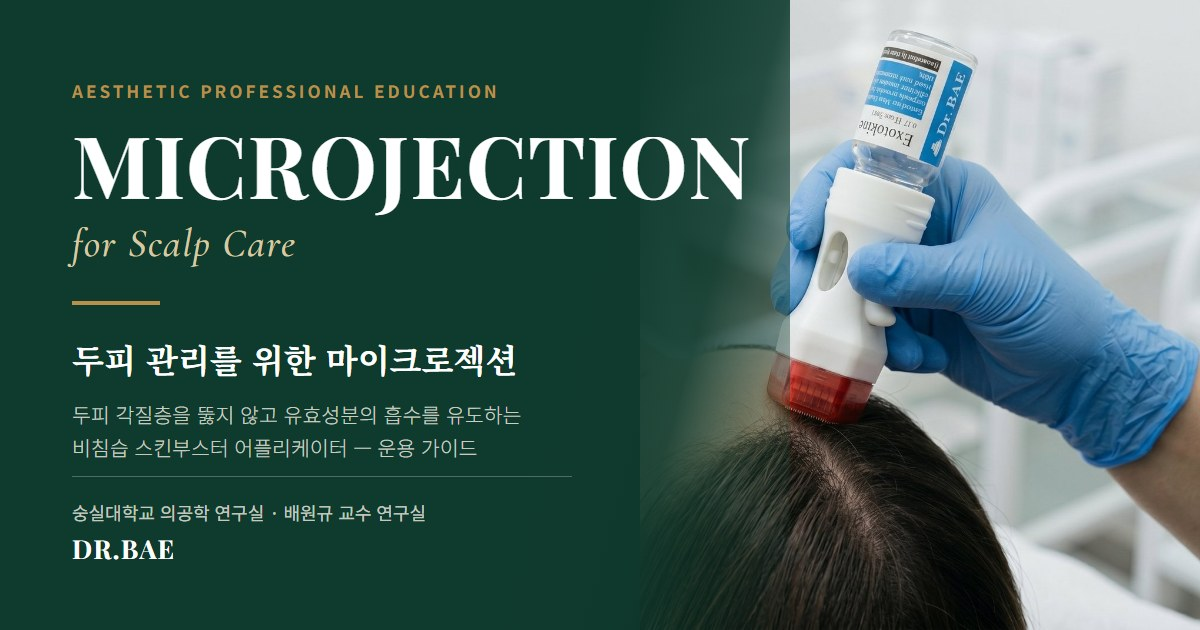
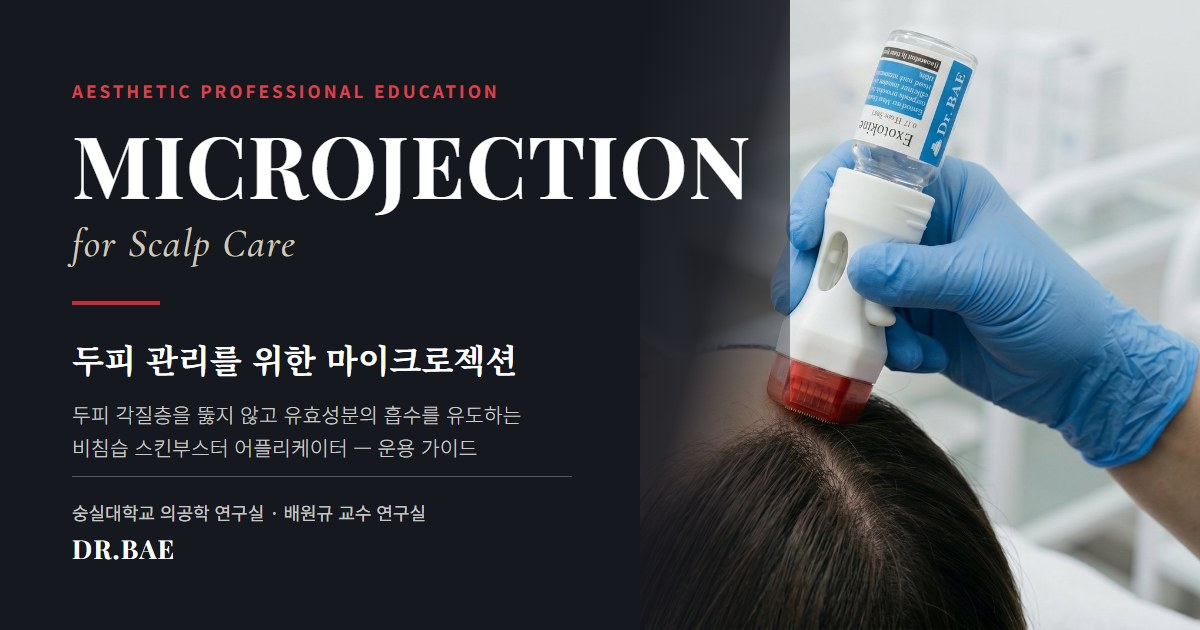
칼라 구성을 스킨케어 페이지 팔레트로 통일
- 포레스트 그린·골드·크림 → 잉크 블랙·시그널 레드·페이퍼·골드
  (Microjection_Skin-care와 동일한 팔레트: #16181F·#C62B36·#FAF8F4·#9C7F42)
- 배경·카드·괘선·워터마크·다크 박스·홈케어 카드·캡션 카드 전면 리매핑
- 효능 배지: Hydrate→블루, Condition→그린 등 스킨 페이지 톤으로 조정
- 라인업 칩: DEVICE 레드 · LIQUID 블루 · CLEANSER 그린 재배정
- OG 썸네일도 잉크 블랙 + 레드 포인트로 재생성

diff --git a/index.html b/index.html
@@ -26,22 +26,22 @@
 <link href="https://fonts.googleapis.com/css2?family=Noto+Serif+KR:wght@400;600;700;900&family=Noto+Sans+KR:wght@300;400;500;700&family=Cormorant+Garamond:ital,wght@0,400;0,500;0,600;1,400&family=JetBrains+Mono:wght@400;500&display=swap" rel="stylesheet">
 <style>
   :root {
-    --bg: #F6F1E6;
-    --bg-2: #EFE7D4;
-    --bg-card: #FBF7EC;
-    --ink: #12231B;
-    --ink-2: #2E3D34;
-    --ink-3: #5D6A60;
-    --forest: #0F3B2E;
-    --forest-2: #1E5A45;
-    --forest-3: #2E7A5E;
-    --moss: #6B8A5A;
-    --gold: #B8904A;
-    --gold-2: #8E6A2E;
-    --clay: #A14E35;
-    --rule: rgba(18, 35, 27, 0.14);
-    --rule-2: rgba(18, 35, 27, 0.28);
-    --shadow: 0 1px 2px rgba(15,59,46,0.04), 0 10px 32px -12px rgba(15,59,46,0.12);
+    --bg: #FAF8F4;
+    --bg-2: #F1EDE5;
+    --bg-card: #FFFFFF;
+    --ink: #16181F;
+    --ink-2: #2E313B;
+    --ink-3: #6E7076;
+    --forest: #16181F;
+    --forest-2: #C62B36;
+    --forest-3: #A02028;
+    --moss: #2F6B4F;
+    --gold: #9C7F42;
+    --gold-2: #8A5A12;
+    --clay: #C62B36;
+    --rule: rgba(22, 24, 31, 0.14);
+    --rule-2: rgba(22, 24, 31, 0.28);
+    --shadow: 0 1px 2px rgba(22,24,31,0.04), 0 10px 32px -12px rgba(22,24,31,0.12);
   }
   * { box-sizing: border-box; margin: 0; padding: 0; }
   html { scroll-behavior: smooth; }
@@ -55,8 +55,8 @@
     -webkit-font-smoothing: antialiased;
     -moz-osx-font-smoothing: grayscale;
     background-image:
-      radial-gradient(circle at 10% 0%, rgba(107,138,90,0.10) 0%, transparent 35%),
-      radial-gradient(circle at 95% 85%, rgba(184,144,74,0.08) 0%, transparent 40%);
+      radial-gradient(circle at 10% 0%, rgba(47,107,79,0.10) 0%, transparent 35%),
+      radial-gradient(circle at 95% 85%, rgba(156,127,66,0.08) 0%, transparent 40%);
     background-attachment: fixed;
   }
   /* Watermark */
@@ -65,13 +65,13 @@
     top: 0;
     z-index: 100;
     background: var(--forest);
-    color: #F6F1E6;
+    color: #FAF8F4;
     padding: 8px 20px;
     font-size: 11.5px;
     letter-spacing: 0.12em;
     text-align: center;
     font-weight: 500;
-    border-bottom: 1px solid rgba(184,144,74,0.4);
+    border-bottom: 1px solid rgba(156,127,66,0.4);
   }
   .watermark-top span {
     color: var(--gold);
@@ -82,7 +82,7 @@
     position: sticky;
     top: 33px;
     z-index: 99;
-    background: rgba(246, 241, 230, 0.94);
+    background: rgba(250, 248, 244, 0.94);
     backdrop-filter: blur(10px);
     border-bottom: 0.5px solid var(--rule);
     padding: 12px 0;
@@ -177,7 +177,7 @@
 
   /* HERO */
   .hero {
-    background: linear-gradient(180deg, rgba(15,59,46,0.03), transparent);
+    background: linear-gradient(180deg, rgba(22,24,31,0.03), transparent);
     border: 1px solid var(--rule);
     border-radius: 2px;
     padding: 56px 48px;
@@ -233,7 +233,7 @@
     border-radius: 2px;
     overflow: hidden;
     background: var(--forest);
-    box-shadow: 0 2px 24px -8px rgba(15,59,46,0.25);
+    box-shadow: 0 2px 24px -8px rgba(22,24,31,0.25);
   }
   .hero-banner img {
     width: 100%;
@@ -247,7 +247,7 @@
     position: absolute;
     inset: auto 0 0 0;
     height: 55%;
-    background: linear-gradient(180deg, transparent 0%, rgba(18,35,27,0.35) 45%, rgba(18,35,27,0.88) 100%);
+    background: linear-gradient(180deg, transparent 0%, rgba(22,24,31,0.35) 45%, rgba(22,24,31,0.88) 100%);
     pointer-events: none;
   }
   .hero-banner figcaption {
@@ -270,7 +270,7 @@
     text-transform: uppercase;
     margin-bottom: 8px;
     padding-bottom: 5px;
-    border-bottom: 1px solid rgba(184,144,74,0.6);
+    border-bottom: 1px solid rgba(156,127,66,0.6);
   }
   .hero-banner .banner-text {
     display: block;
@@ -283,7 +283,7 @@
   .hero-banner .banner-sub {
     display: block;
     font-size: 13px;
-    color: rgba(246,241,230,0.8);
+    color: rgba(250,248,244,0.8);
     margin-top: 6px;
     font-weight: 400;
   }
@@ -301,7 +301,7 @@
     border-radius: 2px;
     overflow: hidden;
     background: var(--bg-card);
-    box-shadow: 0 2px 18px -10px rgba(15,59,46,0.22);
+    box-shadow: 0 2px 18px -10px rgba(22,24,31,0.22);
   }
   .section-banner img {
     width: 100%;
@@ -315,7 +315,7 @@
     position: absolute;
     inset: auto 0 0 0;
     height: 45%;
-    background: linear-gradient(180deg, transparent 0%, rgba(18,35,27,0.35) 40%, rgba(18,35,27,0.85) 100%);
+    background: linear-gradient(180deg, transparent 0%, rgba(22,24,31,0.35) 40%, rgba(22,24,31,0.85) 100%);
     pointer-events: none;
   }
   .section-banner figcaption {
@@ -338,7 +338,7 @@
     text-transform: uppercase;
     margin-bottom: 6px;
     padding-bottom: 4px;
-    border-bottom: 1px solid rgba(184,144,74,0.6);
+    border-bottom: 1px solid rgba(156,127,66,0.6);
   }
   .section-banner .banner-text {
     display: block;
@@ -351,7 +351,7 @@
   .section-banner .banner-sub {
     display: block;
     font-size: 12.5px;
-    color: rgba(246,241,230,0.8);
+    color: rgba(250,248,244,0.8);
     margin-top: 5px;
     font-weight: 400;
   }
@@ -373,7 +373,7 @@
     border-radius: 0 2px 2px 0;
   }
   .callout.forest { border-left-color: var(--forest); }
-  .callout.clay { border-left-color: var(--clay); background: #F3E6DE; }
+  .callout.clay { border-left-color: var(--clay); background: #FBEDEE; }
   .callout-title {
     font-family: 'Noto Serif KR', serif;
     font-weight: 700;
@@ -493,7 +493,7 @@
     position: absolute;
     top: 0; left: 0; right: 0;
     height: 3px;
-    background: linear-gradient(90deg, rgba(93,106,96,0.4) 0%, var(--gold) 50%, var(--forest) 100%);
+    background: linear-gradient(90deg, rgba(110,112,118,0.4) 0%, var(--gold) 50%, var(--forest) 100%);
   }
   .evo-header,
   .evo-row {
@@ -559,7 +559,7 @@
   }
   .evo-past {
     padding: 10px 16px;
-    background: rgba(15,59,46,0.035);
+    background: rgba(22,24,31,0.035);
     border-left: 2px solid var(--rule-2);
     border-radius: 0 2px 2px 0;
     color: var(--ink-3);
@@ -718,7 +718,7 @@
   .product-card .ptags span {
     font-size: 11px;
     padding: 3px 9px;
-    background: rgba(15,59,46,0.07);
+    background: rgba(22,24,31,0.07);
     color: var(--forest-2);
     border-radius: 10px;
     letter-spacing: 0.02em;
@@ -731,9 +731,9 @@
   }
   .product-card.device .pcat { color: var(--gold); }
   .product-card.device .pname { color: var(--bg); }
-  .product-card.device .pdesc { color: rgba(246,241,230,0.85); }
-  .product-card.device .ptags { border-top-color: rgba(246,241,230,0.2); }
-  .product-card.device .ptags span { background: rgba(184,144,74,0.2); color: var(--gold); }
+  .product-card.device .pdesc { color: rgba(250,248,244,0.85); }
+  .product-card.device .ptags { border-top-color: rgba(250,248,244,0.2); }
+  .product-card.device .ptags span { background: rgba(156,127,66,0.2); color: var(--gold); }
   .shop-only-badge {
     position: absolute;
     top: 12px; right: 12px;
@@ -775,7 +775,7 @@
     transition: background 0.2s;
     position: relative;
   }
-  .acc-head:hover { background: rgba(15,59,46,0.035); }
+  .acc-head:hover { background: rgba(22,24,31,0.035); }
   .acc-head .tier-num {
     font-family: 'Cormorant Garamond', serif;
     font-style: italic;
@@ -1012,11 +1012,11 @@
     color: var(--bg);
     margin-bottom: 14px;
     padding-bottom: 10px;
-    border-bottom: 1px solid rgba(184,144,74,0.35);
+    border-bottom: 1px solid rgba(156,127,66,0.35);
   }
   .home-card ol {
     margin-left: 18px;
-    color: rgba(246,241,230,0.88);
+    color: rgba(250,248,244,0.88);
     font-size: 14px;
   }
   .home-card ol li { margin-bottom: 6px; line-height: 1.6; }
@@ -1025,7 +1025,7 @@
   /* Compliance footer */
   .compliance {
     background: var(--forest);
-    color: #F6F1E6;
+    color: #FAF8F4;
     padding: 40px 36px;
     margin-top: 60px;
     border-radius: 2px;
@@ -1033,11 +1033,11 @@
   .compliance h3 {
     color: var(--gold);
     margin-bottom: 16px;
-    border-bottom: 1px solid rgba(184,144,74,0.4);
+    border-bottom: 1px solid rgba(156,127,66,0.4);
     padding-bottom: 10px;
   }
   .compliance p {
-    color: #F6F1E6;
+    color: #FAF8F4;
     font-size: 14.5px;
     font-weight: 400;
     line-height: 1.85;
@@ -1048,7 +1048,7 @@
     font-weight: 700;
   }
   .compliance p em {
-    color: #F6F1E6;
+    color: #FAF8F4;
     font-style: italic;
     opacity: 0.95;
   }
@@ -1060,8 +1060,8 @@
   }
   .compliance .lang > div {
     padding: 18px 22px;
-    background: rgba(246,241,230,0.07);
-    border: 0.5px solid rgba(184,144,74,0.25);
+    background: rgba(250,248,244,0.07);
+    border: 0.5px solid rgba(156,127,66,0.25);
     border-radius: 2px;
   }
   .compliance .lang h4 {
@@ -1070,7 +1070,7 @@
     letter-spacing: 0.1em;
     margin-bottom: 12px;
     padding-bottom: 8px;
-    border-bottom: 0.5px solid rgba(184,144,74,0.3);
+    border-bottom: 0.5px solid rgba(156,127,66,0.3);
   }
   .compliance .lang ul {
     margin: 0 0 0 18px;
@@ -1078,7 +1078,7 @@
     list-style: disc;
   }
   .compliance .lang li {
-    color: #F6F1E6;
+    color: #FAF8F4;
     font-size: 13.5px;
     font-weight: 400;
     line-height: 1.75;
@@ -1148,19 +1148,19 @@
     font-size: 10px;
     letter-spacing: 0;
   }
-  .eff-badge.delivery  { background: rgba(15,59,46,0.10);  color: var(--forest);   border-color: rgba(15,59,46,0.25); }
+  .eff-badge.delivery  { background: rgba(22,24,31,0.10);  color: var(--forest);   border-color: rgba(22,24,31,0.25); }
   .eff-badge.delivery::before  { content: "▲ "; }
-  .eff-badge.cleanse   { background: rgba(161,78,53,0.10); color: var(--clay);     border-color: rgba(161,78,53,0.25); }
+  .eff-badge.cleanse   { background: rgba(198,43,54,0.10); color: var(--clay);     border-color: rgba(198,43,54,0.25); }
   .eff-badge.cleanse::before   { content: "○ "; }
-  .eff-badge.condition { background: rgba(107,138,90,0.15);color: #3D5A2A;         border-color: rgba(107,138,90,0.35); }
+  .eff-badge.condition { background: rgba(47,107,79,0.15);color: #2F6B4F;         border-color: rgba(47,107,79,0.35); }
   .eff-badge.condition::before { content: "◇ "; }
-  .eff-badge.nourish   { background: rgba(184,144,74,0.18);color: var(--gold-2);   border-color: rgba(184,144,74,0.40); }
+  .eff-badge.nourish   { background: rgba(156,127,66,0.18);color: var(--gold-2);   border-color: rgba(156,127,66,0.40); }
   .eff-badge.nourish::before   { content: "● "; }
-  .eff-badge.hydrate   { background: rgba(46,122,94,0.13); color: var(--forest-2); border-color: rgba(46,122,94,0.35); }
+  .eff-badge.hydrate   { background: rgba(30,99,176,0.10); color: #1E63B0; border-color: rgba(30,99,176,0.30); }
   .eff-badge.hydrate::before   { content: "◆ "; }
-  .eff-badge.soothe    { background: rgba(184,144,74,0.10);color: var(--gold-2);   border-color: rgba(184,144,74,0.25); }
+  .eff-badge.soothe    { background: rgba(156,127,66,0.10);color: var(--gold-2);   border-color: rgba(156,127,66,0.25); }
   .eff-badge.soothe::before    { content: "◎ "; }
-  .eff-badge.massage   { background: rgba(161,78,53,0.08); color: var(--clay);     border-color: rgba(161,78,53,0.22); }
+  .eff-badge.massage   { background: rgba(198,43,54,0.08); color: var(--clay);     border-color: rgba(198,43,54,0.22); }
   .eff-badge.massage::before   { content: "☐ "; }
 
   /* Keyword pills rendered inside each product accordion header */
@@ -1174,8 +1174,8 @@
     font-size: 12px;
     padding: 4px 11px;
     background: transparent;
-    color: var(--forest-2);
-    border: 0.5px solid var(--forest-2);
+    color: var(--gold-2);
+    border: 0.5px solid var(--gold-2);
     border-radius: 2px;
     font-weight: 500;
     letter-spacing: 0.01em;
@@ -1532,7 +1532,7 @@
   /* ── Etymology dark composite (from Microjection_Skin-care) ── */
   .etym-dark {
     background: var(--forest);
-    color: #F6F1E6;
+    color: #FAF8F4;
     border-radius: 3px;
     padding: 32px 24px;
     margin: 24px 0;
@@ -1558,16 +1558,16 @@
     font-size: 11.5px;
     font-weight: 300;
     letter-spacing: 0.02em;
-    color: rgba(246, 241, 230, 0.62);
+    color: rgba(250, 248, 244, 0.62);
     margin-top: 4px;
   }
   .etym-dark .ed-eq {
     margin-top: 22px;
     padding-top: 20px;
-    border-top: 1px solid rgba(246, 241, 230, 0.18);
+    border-top: 1px solid rgba(250, 248, 244, 0.18);
     font-size: 14px;
     line-height: 1.85;
-    color: rgba(246, 241, 230, 0.9);
+    color: rgba(250, 248, 244, 0.9);
     text-align: center;
   }
   .etym-dark .ed-eq b { color: #fff; }
@@ -1597,7 +1597,7 @@
   .prod-tag.brown   { background: #7A4A1E; }
   .prod-tag.powder  { background: #71747B; }
   .prod-tag.gel     { background: #A9763F; }
-  .prod-tag.liquid  { background: var(--forest-2); }
+  .prod-tag.liquid  { background: #1E63B0; }
   .prod-tag.cleanse { background: var(--moss); }
 
   /* ── Instagram caption cards ── */
@@ -1622,7 +1622,7 @@
     letter-spacing: 0.12em;
     font-weight: 700;
     background: var(--forest);
-    color: #F6F1E6;
+    color: #FAF8F4;
     padding: 3px 9px;
     border-radius: 2px;
   }
@@ -1656,7 +1656,7 @@
   .cap-btn {
     margin-left: auto;
     background: var(--forest);
-    color: #F6F1E6;
+    color: #FAF8F4;
     border: 0;
     border-radius: 2px;
     font-family: inherit;
@@ -1686,7 +1686,7 @@
     bottom: 34px;
     transform: translateX(-50%) translateY(14px);
     background: var(--forest);
-    color: #F6F1E6;
+    color: #FAF8F4;
     font-size: 13px;
     padding: 11px 24px;
     border-radius: 24px;
